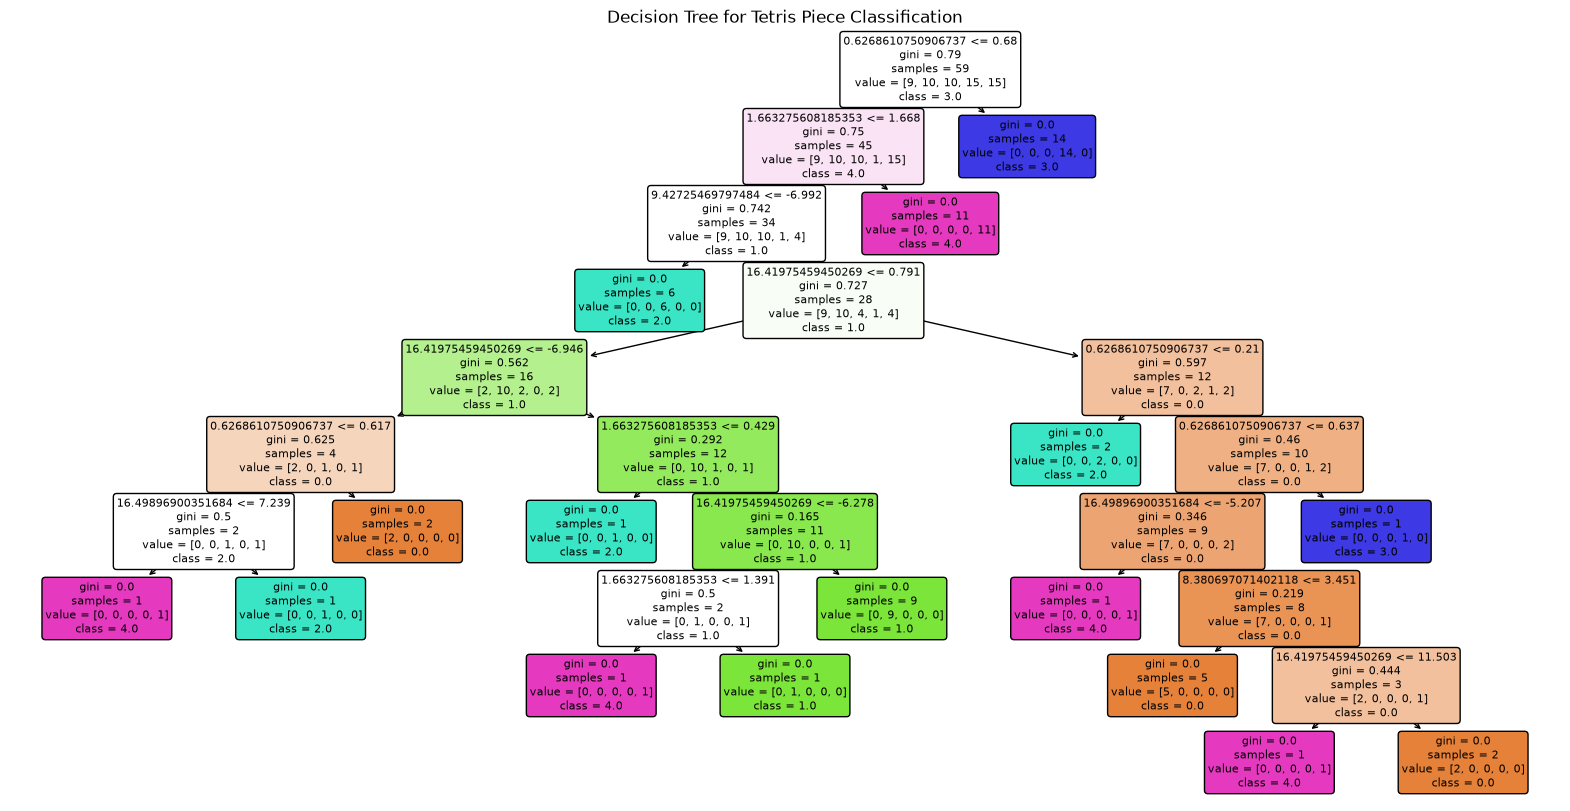
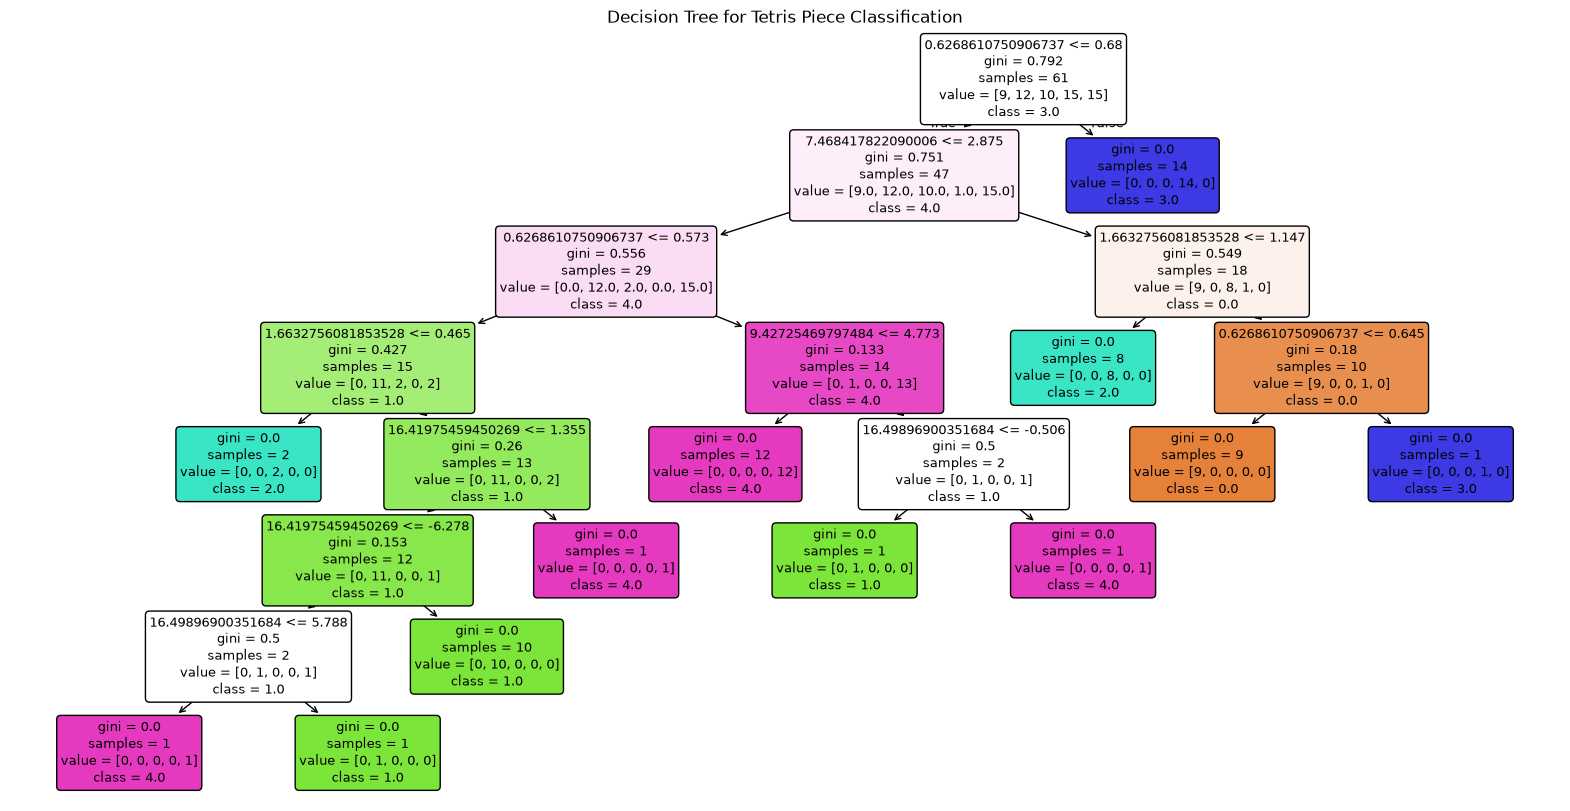
.

diff --git a/tp2/utils/demo.py b/tp2/utils/demo.py
@@ -1,0 +1,147 @@
+import os
+import sys
+import cv2
+import math
+import joblib
+import numpy as np
+import warnings
+
+try:
+    from utils.label_converters import int_to_label
+except ModuleNotFoundError:
+    from label_converters import int_to_label
+
+warnings.filterwarnings("ignore")
+
+def compute_hu_moments(contour):
+    """
+    Computes log-scaled Hu moments for a given contour,
+    matching the preprocessing in dataset_generator.py.
+    """
+    moments = cv2.moments(contour)
+    hu_moments = cv2.HuMoments(moments).flatten()
+    for i in range(7):
+        val = float(hu_moments[i])
+        mag = abs(val)
+        if mag == 0.0:
+            hu_moments[i] = 0.0
+        else:
+            hu_moments[i] = -1.0 * math.copysign(1.0, val) * math.log10(mag)
+    return hu_moments
+
+def run_camera_demo(model_path="model/decision_tree_model.joblib", camera_index=0):
+    # Support running from either root or tp2/ folder
+    if not os.path.exists(model_path):
+        alt_path = os.path.join("tp2", model_path)
+        if os.path.exists(alt_path):
+            model_path = alt_path
+        else:
+            raise FileNotFoundError(f"Model not found at {model_path} or {alt_path}. Please train the model first.")
+
+    print(f"Loading model from {model_path}...")
+    model = joblib.load(model_path)
+
+    cap = cv2.VideoCapture(camera_index)
+    if not cap.isOpened():
+        print(f"Error: Could not open camera with index {camera_index}.")
+        return
+
+    window_name = "Tetris Piece Classifier - Live"
+    cv2.namedWindow(window_name, cv2.WINDOW_NORMAL)
+    cv2.resizeWindow(window_name, 960, 540)
+
+    # Trackbars for real-time adjustments
+    def nothing(x):
+        pass
+
+    cv2.createTrackbar("Block Size", window_name, 33, 100, nothing)     # Adaptive threshold block size (odd > 1)
+    cv2.createTrackbar("C Constant", window_name, 2, 50, nothing)        # Adaptive threshold C
+    cv2.createTrackbar("Min Area", window_name, 2000, 50000, nothing)    # Minimum contour area
+    cv2.createTrackbar("Max Area", window_name, 150000, 300000, nothing) # Maximum contour area
+    cv2.createTrackbar("Invert", window_name, 1, 1, nothing)             # 1 = piece is darker than background
+
+    print("\n--- CONTROLS ---")
+    print(" Press 'q' or 'ESC' to exit")
+    print(" Adjust trackbars to tune contour detection")
+    print("----------------\n")
+
+    colors = {
+        "cleveland_z": (0, 0, 255),     # Red
+        "orange_ricky": (0, 165, 255),  # Orange
+        "hero": (255, 255, 0),          # Cyan / Light Blue
+        "smashboy": (0, 255, 255),      # Yellow
+        "teewee": (255, 0, 255)         # Purple / Magenta
+    }
+
+    while True:
+        ret, frame = cap.read()
+        if not ret:
+            print("Failed to grab frame.")
+            break
+
+        # Read trackbar values
+        block_size = cv2.getTrackbarPos("Block Size", window_name)
+        if block_size % 2 == 0:
+            block_size += 1
+        if block_size < 3:
+            block_size = 3
+
+        c_val = cv2.getTrackbarPos("C Constant", window_name)
+        min_area = cv2.getTrackbarPos("Min Area", window_name)
+        max_area = cv2.getTrackbarPos("Max Area", window_name)
+        invert = cv2.getTrackbarPos("Invert", window_name)
+
+        # Preprocessing
+        gray = cv2.cvtColor(frame, cv2.COLOR_BGR2GRAY)
+        bin_img = cv2.adaptiveThreshold(
+            gray, 255, cv2.ADAPTIVE_THRESH_GAUSSIAN_C, cv2.THRESH_BINARY, block_size, c_val
+        )
+
+        if invert == 1:
+            bin_img = 255 - bin_img
+
+        # Denoising
+        kernel = np.ones((3, 3), np.uint8)
+        bin_clean = cv2.morphologyEx(bin_img, cv2.MORPH_OPEN, kernel)
+
+        # Find contours
+        contours, _ = cv2.findContours(bin_clean, cv2.RETR_EXTERNAL, cv2.CHAIN_APPROX_SIMPLE)
+
+        for cnt in contours:
+            area = cv2.contourArea(cnt)
+            if min_area <= area <= max_area:
+                try:
+                    hu_moments = compute_hu_moments(cnt)
+                    sample = np.array([hu_moments], dtype=np.float64)
+                    
+                    # Predict class
+                    pred_class = model.predict(sample)[0]
+                    label = int_to_label(int(pred_class))
+                    color = colors.get(label, (0, 255, 0))
+
+                    # Bounding rectangle and label drawing
+                    x, y, w, h = cv2.boundingRect(cnt)
+                    cv2.drawContours(frame, [cnt], -1, color, 3)
+                    
+                    # Draw label background
+                    label_text = f"{label} ({int(area)})"
+                    (text_w, text_h), baseline = cv2.getTextSize(label_text, cv2.FONT_HERSHEY_SIMPLEX, 0.7, 2)
+                    cv2.rectangle(frame, (x, y - text_h - 10), (x + text_w + 6, y), color, -1)
+                    cv2.putText(frame, label_text, (x + 3, y - 5), cv2.FONT_HERSHEY_SIMPLEX, 0.7, (0, 0, 0), 2, cv2.LINE_AA)
+
+                except Exception:
+                    # Ignore ill-conditioned moments or out-of-range shapes
+                    pass
+
+        cv2.imshow(window_name, frame)
+        cv2.imshow("Binary Mask (Debug)", bin_clean)
+
+        key = cv2.waitKey(1) & 0xFF
+        if key == ord('q') or key == 27:
+            break
+
+    cap.release()
+    cv2.destroyAllWindows()
+
+if __name__ == "__main__":
+    run_camera_demo()

diff --git a/tp2/main.py b/tp2/main.py
@@ -1,5 +1,22 @@
+import sys
 from utils.trainer import train_decision_tree
 from utils.dataset_generator import generate_hu_moments_file
+from utils.demo import run_camera_demo
 
-generate_hu_moments_file()
-train_decision_tree(csv_path='dataset/tetris-hu-moments.csv', model_output_path='model/decision_tree_model.joblib', plot_output_path='model/decision_tree_plot.png')
+def main():
+    if len(sys.argv) > 1 and sys.argv[1] == "--demo":
+        run_camera_demo()
+        return
+
+    generate_hu_moments_file()
+    train_decision_tree(
+        csv_path='dataset/tetris-hu-moments.csv',
+        model_output_path='model/decision_tree_model.joblib',
+        plot_output_path='model/decision_tree_plot.png'
+    )
+
+    if "--run-demo" in sys.argv:
+        run_camera_demo()
+
+if __name__ == "__main__":
+    main()

diff --git a/tp2/utils/dataset_generator.py b/tp2/utils/dataset_generator.py
@@ -4,7 +4,10 @@ import glob
 import numpy
 import math
 
-from utils.label_converters import label_to_int
+try:
+    from utils.label_converters import label_to_int
+except ModuleNotFoundError:
+    from label_converters import label_to_int
 
 def generate_hu_moments_file():
     with open('dataset/tetris-hu-moments.csv', 'w',
